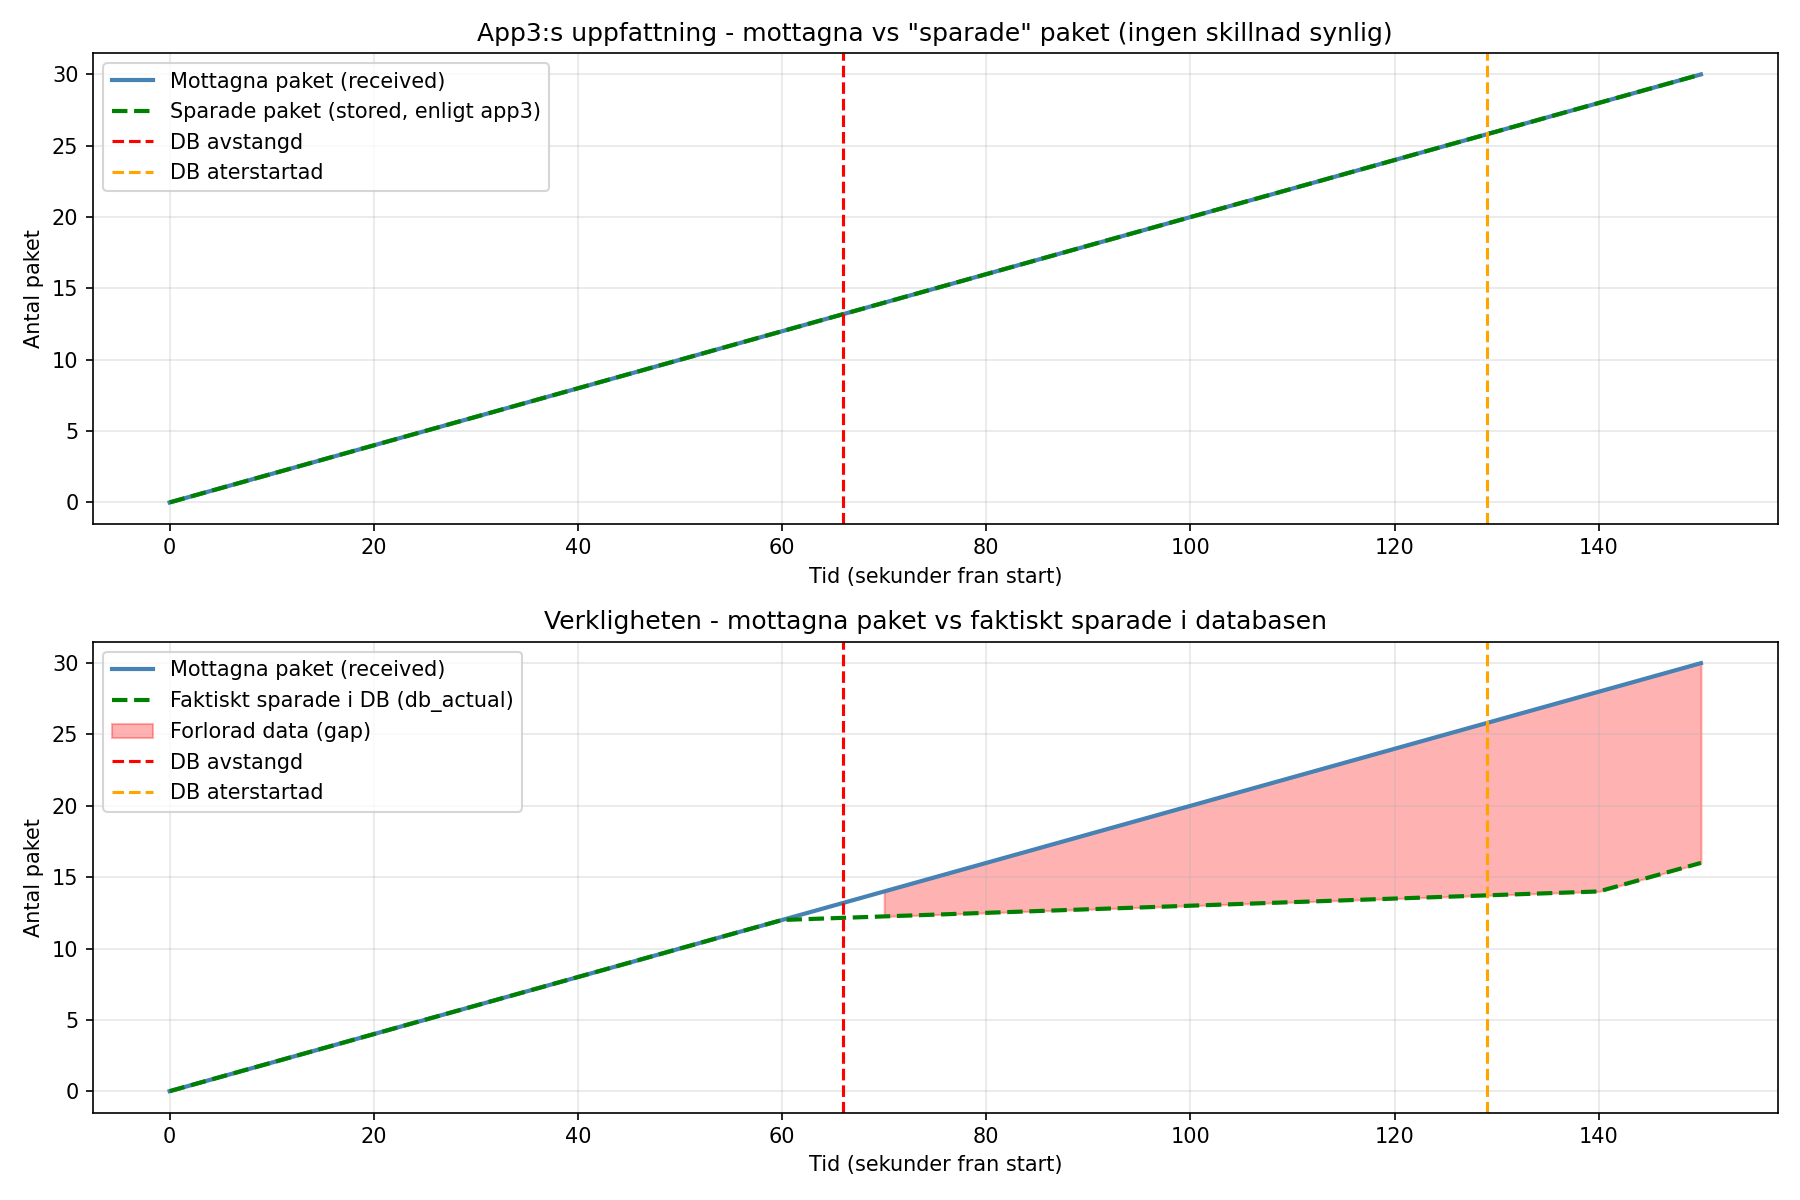
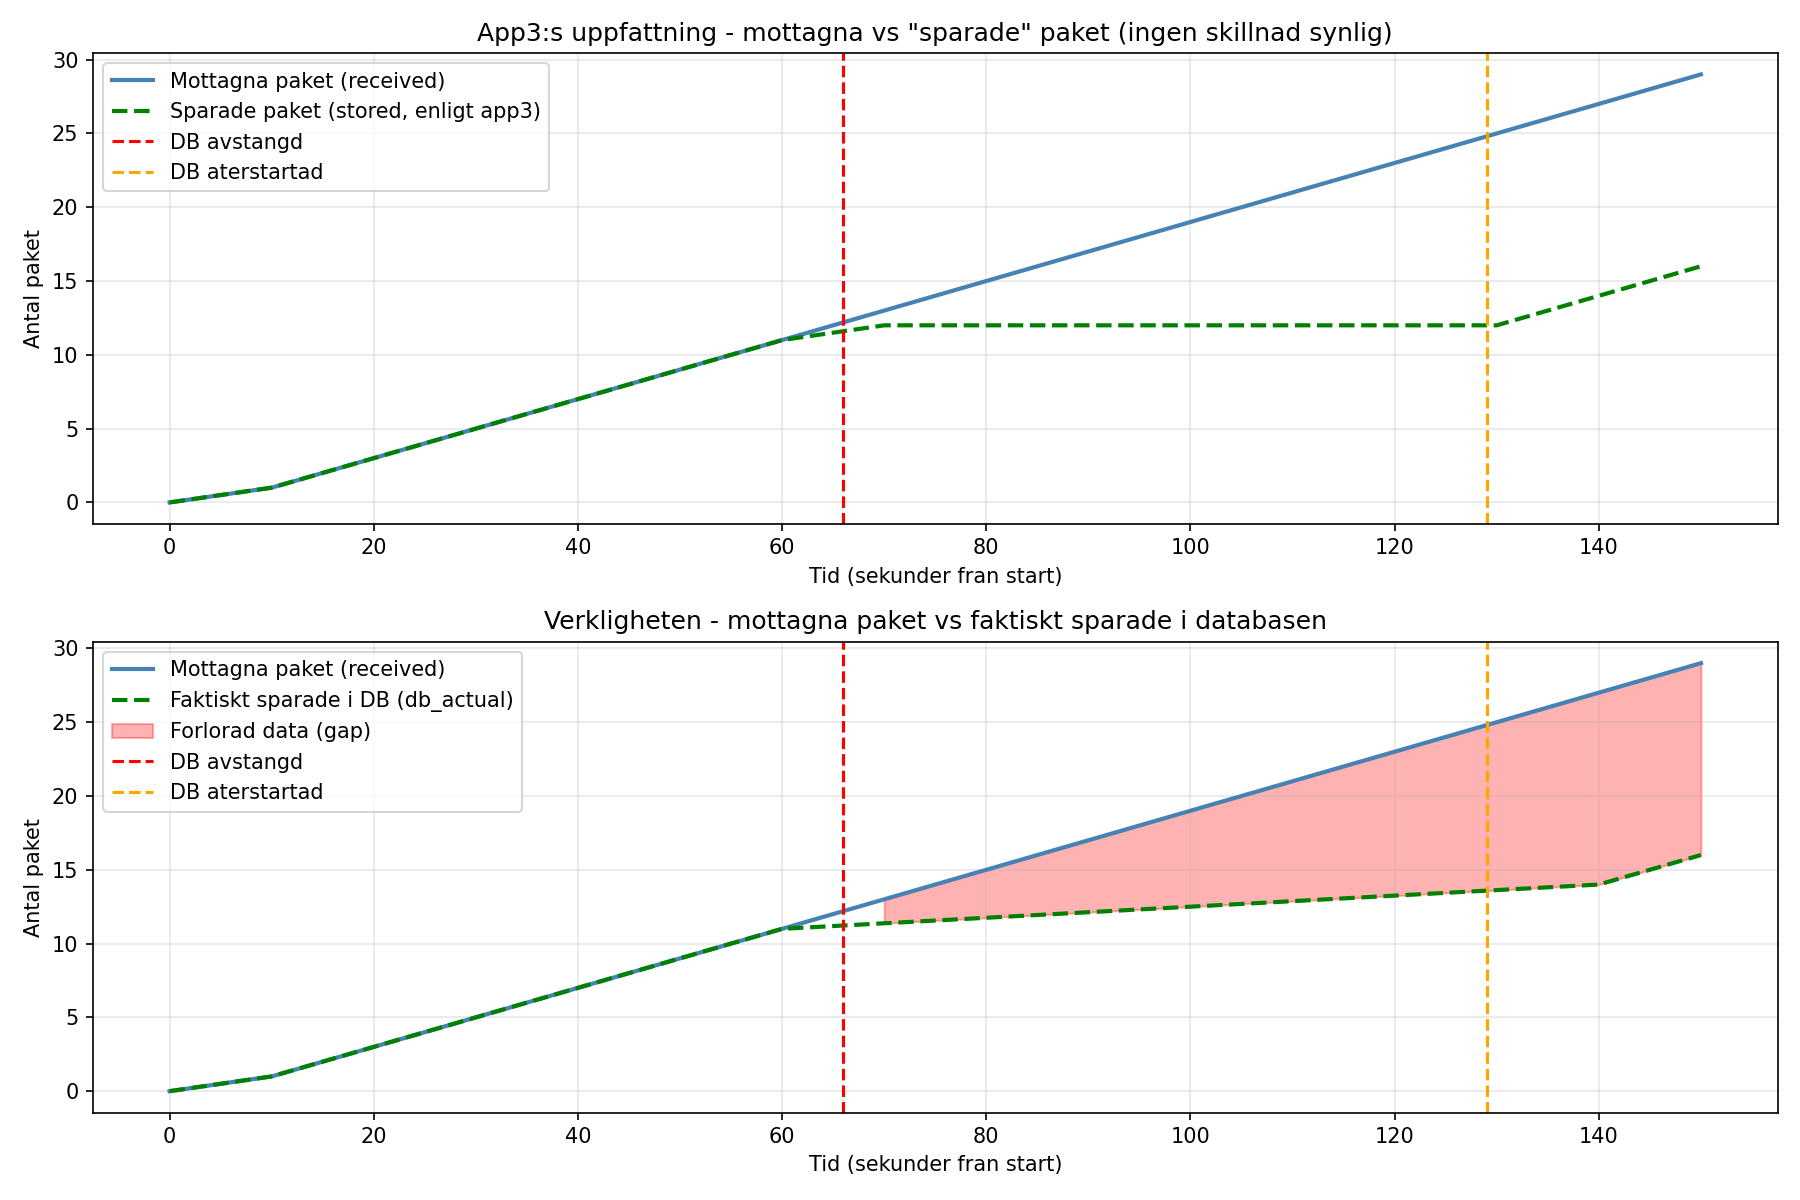
mitigation plan implemented

diff --git a/apps/app3/main.go b/apps/app3/main.go
@@ -32,11 +32,16 @@ func main() {
 			fmt.Printf("!!! CRITICAL TEMP on %s: %d !!!\n", data.MachineID, data.Temperature)
 		}
 
-		// Ingen success check - stored okas oavsett om DB-skrivningen lyckades
-		db.Exec("INSERT INTO sensor_data (timestamp, machine_id, temperature, pressure) VALUES (?, ?, ?, ?)",
+		// Success check - stored okas bara om skrivningen lyckades
+		_, err := db.Exec("INSERT INTO sensor_data (timestamp, machine_id, temperature, pressure) VALUES (?, ?, ?, ?)",
 			data.Timestamp, data.MachineID, data.Temperature, data.Pressure)
-		stored++
+		if err != nil {
+			fmt.Printf("[!] DB-skrivning misslyckades: %v\n", err)
+			w.WriteHeader(http.StatusInternalServerError)
+			return
+		}
 
+		stored++
 		fmt.Println("Stored data from:", data.MachineID)
 		w.WriteHeader(http.StatusOK)
 	})
@@ -45,7 +50,6 @@ func main() {
 		fmt.Fprintf(w, `{"received": %d, "stored": %d}`, received, stored)
 	})
 
-	// Nytt endpoint - hamtar faktiskt antal rader i databasen
 	http.HandleFunc("/dbcount", func(w http.ResponseWriter, r *http.Request) {
 		var count int
 		row := db.QueryRow("SELECT COUNT(*) FROM sensor_data")